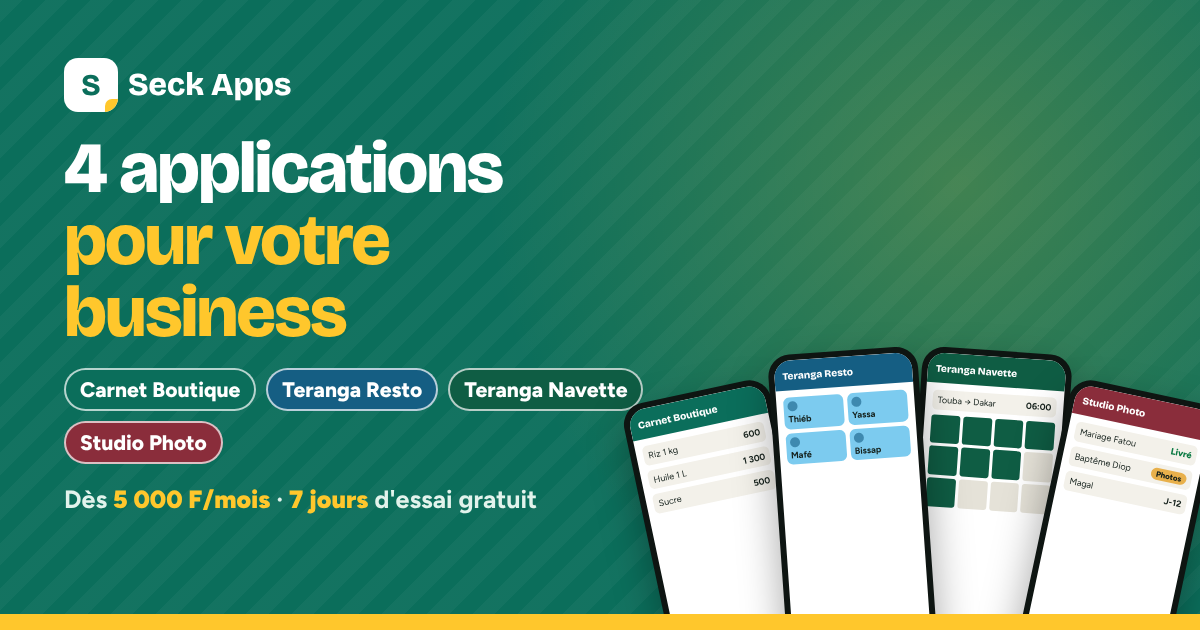
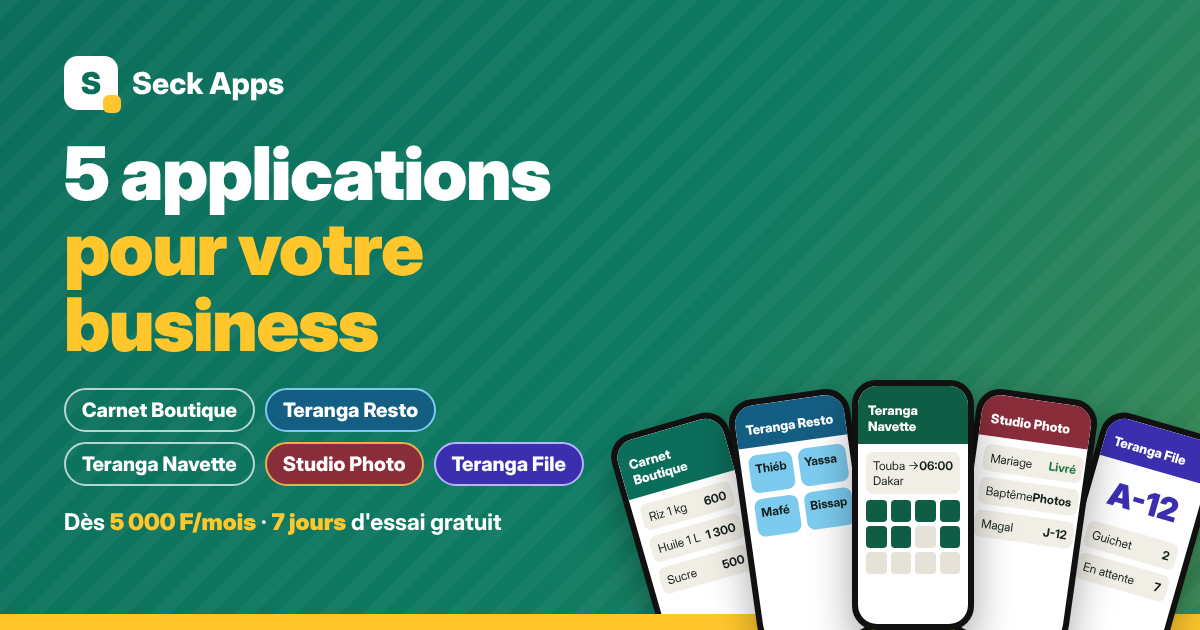
Vitrine : ajout de Teranga File (5 applications) + nouvelle image WhatsApp
- Fiche Teranga File (prix sur devis, lien vers l'exemple)
- Textes à jour : commandes en ligne qui arrivent directement dans l'app
- Lien et image de partage corrigés (/seck/ au lieu de /apps/)

Claude-Session: https://claude.ai/code/session_0154ebuB38kkaQ2sVUATtqr7

diff --git a/index.html b/index.html
@@ -4,17 +4,17 @@
 <meta charset="utf-8">
 <meta name="viewport" content="width=device-width, initial-scale=1, viewport-fit=cover">
 <meta name="theme-color" content="#0B6E5B">
-<meta name="description" content="Carnet Boutique, Teranga Resto, Teranga Navette et Studio Photo : 4 applications simples pour gérer votre business au Sénégal. 7 jours d&#x27;essai gratuit.">
-<meta property="og:title" content="Seck Apps — 4 applications pour votre business">
-<meta property="og:description" content="Boutique + boutique en ligne, restaurant, navette, studio photo. Dès 5 000 F/mois. 7 jours d&#x27;essai gratuit. Wave et Orange Money.">
-<meta property="og:image" content="https://seckappssn-maker.github.io/apps/copertina.png">
+<meta name="description" content="Carnet Boutique, Teranga Resto, Teranga Navette, Studio Photo et Teranga File : 5 applications simples pour gérer votre business au Sénégal. 7 jours d&#x27;essai gratuit.">
+<meta property="og:title" content="Seck Apps — 5 applications pour votre business">
+<meta property="og:description" content="Boutique + boutique en ligne, restaurant, navette, studio photo, file d&#x27;attente. Dès 5 000 F/mois. 7 jours d&#x27;essai gratuit. Wave et Orange Money.">
+<meta property="og:image" content="https://seckappssn-maker.github.io/seck/copertina.png">
 <meta property="og:image:width" content="1200">
 <meta property="og:image:height" content="630">
 <meta property="og:type" content="website">
-<meta property="og:url" content="https://seckappssn-maker.github.io/apps/">
+<meta property="og:url" content="https://seckappssn-maker.github.io/seck/">
 <meta name="twitter:card" content="summary_large_image">
 <link rel="apple-touch-icon" href="apple-touch-icon.png">
-<title>Seck Apps · 4 applications</title>
+<title>Seck Apps · 5 applications</title>
 <link rel="preconnect" href="https://fonts.googleapis.com">
 <link rel="stylesheet" href="https://fonts.googleapis.com/css2?family=Bricolage+Grotesque:opsz,wght@12..96,500;12..96,700;12..96,800&family=Figtree:wght@400;500;600;700;800&display=swap">
 <style>
@@ -32,6 +32,7 @@
   --salon:#6A1F5A;    --salon-2:#F2B08F;
   --tphone:#0B6B6E;   --tphone-2:#F28C28;
   --sphoto:#8A2D3B;   --sphoto-2:#E8B04B;
+  --file:#3B2FB0;     --file-2:#B9B2FF;
   --abo:#1F3A5F; --abo-2:#7FC8F8; --asso:#0B6E4F; --asso-2:#E8B04B;
   --display:"Bricolage Grotesque","Arial Narrow",system-ui,sans-serif;
   --body:"Figtree",system-ui,-apple-system,"Segoe UI",Roboto,sans-serif;
@@ -195,6 +196,7 @@ a{color:inherit}
 .more{font-weight:700;color:var(--c);text-underline-offset:3px}
 .tphone{--c:var(--tphone);--c2:var(--tphone-2)}
 .sphoto{--c:var(--sphoto);--c2:var(--sphoto-2)}
+.file{--c:var(--file);--c2:var(--file-2)}
 .app:nth-child(even){grid-template-columns:.95fr 1.05fr}
 .app:nth-child(even) .side{order:2}
 @media (max-width:820px){
@@ -305,8 +307,14 @@ footer b{color:var(--ink)}
 .hero4 .fan .ph:nth-child(1){transform:rotate(-12deg) translateY(30px);z-index:1}
 .hero4 .fan .ph:nth-child(2){transform:rotate(-4deg) translateY(2px);z-index:3}
 .hero4 .fan .ph:nth-child(3){transform:rotate(4deg) translateY(2px);z-index:2}
-.hero4 .fan .ph:nth-child(4){transform:rotate(12deg) translateY(30px);z-index:1}
-@media (max-width:520px){.hero4 .fan{height:210px}.hero4 .fan .ph{width:112px;margin-inline:-16px}}
+.hero4 .fan .ph:nth-child(1){transform:rotate(-16deg) translateY(44px);z-index:1}
+.hero4 .fan .ph:nth-child(2){transform:rotate(-8deg) translateY(12px);z-index:2}
+.hero4 .fan .ph:nth-child(3){transform:rotate(0deg) translateY(0);z-index:4}
+.hero4 .fan .ph:nth-child(4){transform:rotate(8deg) translateY(12px);z-index:3}
+.hero4 .fan .ph:nth-child(5){transform:rotate(16deg) translateY(44px);z-index:2}
+.hero4 .fan .ph{width:136px;margin-inline:-18px}
+@media (max-width:520px){.hero4 .fan{height:200px}.hero4 .fan .ph{width:92px;margin-inline:-18px}}
+.ph.file .big{font-family:var(--display);font-weight:800;font-size:2.4em;text-align:center;line-height:1;padding:.2em 0;color:var(--file)}
 .quad{display:grid;grid-template-columns:repeat(2,minmax(0,1fr));gap:12px;margin-top:16px}
 .qa{display:flex;flex-direction:column;gap:8px;text-decoration:none;color:#fff;background:var(--c);border-radius:22px;padding:18px 16px;min-height:170px;position:relative;overflow:hidden}
 .qa::after{content:"";position:absolute;right:-30px;bottom:-30px;width:110px;height:110px;border-radius:50%;background:var(--c2);opacity:.28}
@@ -314,7 +322,9 @@ footer b{color:var(--ink)}
 .qa b{font-family:var(--display);font-size:clamp(20px,4.6vw,26px);line-height:1.05}
 .qa span.d{font-size:14px;color:rgba(255,255,255,.88);position:relative;z-index:1}
 .qa .go{margin-top:auto;font-weight:800;font-size:14px;position:relative;z-index:1}
-@media (min-width:821px){.quad{grid-template-columns:repeat(4,minmax(0,1fr))}}
+@media (min-width:821px){.quad{grid-template-columns:repeat(5,minmax(0,1fr))}}
+.quad .qa:last-child:nth-child(odd){grid-column:1/-1;min-height:140px}
+@media (min-width:821px){.quad .qa:last-child:nth-child(odd){grid-column:auto;min-height:170px}}
 .howto[open]>summary{color:var(--c)}
 .app .howto{border-width:2px}
 </style>
@@ -330,12 +340,12 @@ footer b{color:var(--ink)}
 <section class="hero hero4" id="top">
   <div class="wrap">
     <span class="eyebrow">Seck Apps · Fait au Sénégal</span>
-    <h1>4 applications<br><em>pour faire grandir votre business.</em></h1>
-    <p class="lead">Une boutique, un restaurant, une navette ou un studio photo ? Choisissez votre application : tout est noté, calculé et sauvegardé en ligne. Vos clients peuvent commander ou réserver depuis votre lien.</p>
+    <h1>5 applications<br><em>pour faire grandir votre business.</em></h1>
+    <p class="lead">Une boutique, un restaurant, une navette, un studio photo, ou des clients qui attendent leur tour ? Choisissez votre application : tout est noté, calculé et sauvegardé en ligne. Vos clients peuvent commander ou réserver depuis votre lien.</p>
     <div class="facts"><span>7 jours gratuits</span><span>Dès 5 000 F / mois</span><span>Wave · Orange Money</span><span>Français · Wolof</span></div>
     <div class="btns">
       <a class="btn btn-gold" data-msg="Bonjour Seck Apps, je veux essayer une application 7 jours gratuits." href="#"><svg class="ico" viewBox="0 0 24 24" fill="currentColor" aria-hidden="true"><path d="M12 2a10 10 0 0 0-8.6 15.1L2 22l5-1.3A10 10 0 1 0 12 2zm5.3 14.1c-.2.6-1.3 1.2-1.8 1.2-.5.1-1 .2-3.3-.7-2.8-1.1-4.6-4-4.7-4.1-.1-.2-1.1-1.5-1.1-2.9s.7-2.1 1-2.4c.3-.3.6-.3.8-.3h.6c.2 0 .4 0 .6.5l.9 2.1c.1.2.1.4 0 .5l-.3.5-.4.5c-.1.1-.3.3-.1.6.2.3.8 1.3 1.7 2.1 1.2 1 2.1 1.4 2.4 1.5.3.1.5.1.6-.1l.9-1.1c.2-.3.4-.2.6-.1l2 1c.3.1.5.2.5.3.1.2.1.6-.1 1.2z"/></svg>Essayer gratuitement</a>
-      <a class="btn btn-line" href="#apps">Voir les 4 applications</a>
+      <a class="btn btn-line" href="#apps">Voir les 5 applications</a>
     </div>
     <div class="fan" aria-hidden="true">
       <div class="ph boutique"><div class="scr"><div class="bar">Carnet Boutique</div><div class="in">
@@ -351,13 +361,16 @@ footer b{color:var(--ink)}
       <div class="ph sphoto"><div class="scr"><div class="bar">Studio Photo</div><div class="in">
         <div class="row"><span>Mariage Fatou</span><span class="ok">Livré</span></div><div class="row"><span>Baptême Diop</span><span class="pill">Photos</span></div><div class="row"><span>Magal</span><b>J-12</b></div>
         <div class="tot"><span>Photos</span><span>240</span></div></div></div></div>
+      <div class="ph file"><div class="scr"><div class="bar">Teranga File</div><div class="in">
+        <div class="big">A-12</div><div class="row"><span>Guichet</span><b>2</b></div><div class="row"><span>En attente</span><b>7</b></div>
+        <div class="tot"><span>Suivant</span><span>A-13</span></div></div></div></div>
     </div>
   </div>
 </section>
 
 <main class="wrap">
 
-  <section class="pick" id="apps"><span class="eyebrow" style="color:var(--brand)">Nos applications</span><h2>Laquelle est faite pour vous ?</h2><nav class="quad" aria-label="Applications"><a class="qa boutique" href="#boutique"><span class="k">Commerce</span><b>Carnet Boutique</b><span class="d">Ventes, crédits, stock et votre boutique en ligne sur WhatsApp.</span><span class="go">Tout voir ↓</span></a><a class="qa resto" href="#resto"><span class="k">Restauration</span><b>Teranga Resto</b><span class="d">Caisse rapide, cuisine, livraisons et votre menu en ligne.</span><span class="go">Tout voir ↓</span></a><a class="qa navette" href="#navette"><span class="k">Transport</span><b>Teranga Navette</b><span class="d">Départs pleins, réservations en ligne et itinéraire GPS.</span><span class="go">Tout voir ↓</span></a><a class="qa sphoto" href="#sphoto"><span class="k">Photographe</span><b>Studio Photo</b><span class="d">Séances, acomptes, et des photos livrées en bonne qualité.</span><span class="go">Tout voir ↓</span></a></nav></section>
+  <section class="pick" id="apps"><span class="eyebrow" style="color:var(--brand)">Nos applications</span><h2>Laquelle est faite pour vous ?</h2><nav class="quad" aria-label="Applications"><a class="qa boutique" href="#boutique"><span class="k">Commerce</span><b>Carnet Boutique</b><span class="d">Ventes, crédits, stock et votre boutique en ligne.</span><span class="go">Tout voir ↓</span></a><a class="qa resto" href="#resto"><span class="k">Restauration</span><b>Teranga Resto</b><span class="d">Caisse rapide, cuisine, livraisons et votre menu en ligne.</span><span class="go">Tout voir ↓</span></a><a class="qa navette" href="#navette"><span class="k">Transport</span><b>Teranga Navette</b><span class="d">Départs pleins, réservations en ligne et itinéraire GPS.</span><span class="go">Tout voir ↓</span></a><a class="qa sphoto" href="#sphoto"><span class="k">Photographe</span><b>Studio Photo</b><span class="d">Séances, acomptes, et des photos livrées en bonne qualité.</span><span class="go">Tout voir ↓</span></a><a class="qa file" href="#file"><span class="k">Banque · Clinique</span><b>Teranga File</b><span class="d">Fini la foule au guichet : un numéro, l'écran TV l'appelle.</span><span class="go">Tout voir ↓</span></a></nav></section>
 
   <div class="apps">
 
@@ -381,7 +394,7 @@ footer b{color:var(--ink)}
           <li><span><b>Ventes</b> notées en un geste, même les bonbons à la pièce</span></li>
           <li><span><b>Carnet des dettes</b> : qui doit combien, depuis quand, rappel WhatsApp</span></li>
           <li><span><b>Stock</b> : ce qui reste et ce qu'il faut racheter</span></li>
-          <li><span><b>Boutique en ligne</b> : votre lien avec photos et prix, vos clients commandent sur WhatsApp et votre téléphone sonne</span></li>
+          <li><span><b>Boutique en ligne</b> : votre lien avec photos et prix, la commande arrive dans l'app, votre téléphone sonne et le client suit sa commande</span></li>
           <li><span><b>Mode caisse</b> pour tablette et POS Android</span></li>
           <li><span><b>Ticket 58 mm</b> avec QR Wave, et étiquettes prix</span></li>
           <li><span>Prix lu à haute voix, gros boutons, bouton <b>wolof</b></span></li>
@@ -417,8 +430,8 @@ footer b{color:var(--ink)}
           <li><span>Chaque employé entre avec <b>son code</b> et voit son travail</span></li>
           <li><span>Paiement mixte (espèces + Wave) et <b>addition partagée</b> entre amis</span></li>
         </ul>
-        <div class="extra"><strong>Inclus :</strong><span>votre page menu avec photos, vos clients commandent sur WhatsApp.</span></div>
-        <details class="howto" open><summary>Tout ce que fait l'app</summary><div class="howin"><p class="ht">Comment ça marche</p><ol class="hsteps"><li>Ajoutez vos plats avec photos et prix, rangés par zones (plats, boissons…).</li><li>Le caissier touche les plats : sur place à une table, à emporter ou en livraison.</li><li>La commande part en cuisine : sur l'écran cuisine ou sur un bon imprimé.</li><li>Le client paie en espèces, Wave ou Orange Money, ou un mélange.</li></ol><div class="hgroups"><div><p class="ht">Caisse</p><ul><li>Grandes photos des plats, très rapide quand il y a du monde</li><li>Tables, à emporter sans numéro, livraisons</li><li>Paiement mixte et addition partagée entre amis</li><li>Tickets de caisse</li></ul></div><div><p class="ht">Cuisine et équipe</p><ul><li>Écran cuisine : la commande disparaît quand elle est prête</li><li>Chaque employé a son code et voit seulement son travail</li><li>Le livreur reçoit la livraison sur WhatsApp, sans code</li></ul></div><div><p class="ht">Gestion</p><ul><li>Clients et dettes</li><li>Dépenses et bénéfice</li><li>Stock : riz, huile, gaz… (Pro)</li><li>Personnel : salaires et avances (Pro)</li><li>Abonnés repas au mois et événements traiteur (Pro)</li></ul></div><div><p class="ht">Votre page menu</p><ul><li>Un lien à vous, à partager sur WhatsApp</li><li>Photos, prix, plat du jour, plats épuisés</li><li>Le client commande et le message arrive sur votre WhatsApp</li><li>En français et en wolof</li></ul></div></div></div></details>
+        <div class="extra"><strong>Inclus :</strong><span>votre page menu avec photos : vos clients commandent en ligne et voient quand leur commande est prête.</span></div>
+        <details class="howto" open><summary>Tout ce que fait l'app</summary><div class="howin"><p class="ht">Comment ça marche</p><ol class="hsteps"><li>Ajoutez vos plats avec photos et prix, rangés par zones (plats, boissons…).</li><li>Le caissier touche les plats : sur place à une table, à emporter ou en livraison.</li><li>La commande part en cuisine : sur l'écran cuisine ou sur un bon imprimé.</li><li>Le client paie en espèces, Wave ou Orange Money, ou un mélange.</li></ol><div class="hgroups"><div><p class="ht">Caisse</p><ul><li>Grandes photos des plats, très rapide quand il y a du monde</li><li>Tables, à emporter sans numéro, livraisons</li><li>Paiement mixte et addition partagée entre amis</li><li>Tickets de caisse</li></ul></div><div><p class="ht">Cuisine et équipe</p><ul><li>Écran cuisine : la commande disparaît quand elle est prête</li><li>Chaque employé a son code et voit seulement son travail</li><li>Le livreur reçoit la livraison sur WhatsApp, sans code</li></ul></div><div><p class="ht">Gestion</p><ul><li>Clients et dettes</li><li>Dépenses et bénéfice</li><li>Stock : riz, huile, gaz… (Pro)</li><li>Personnel : salaires et avances (Pro)</li><li>Abonnés repas au mois et événements traiteur (Pro)</li></ul></div><div><p class="ht">Votre page menu</p><ul><li>Un lien à vous, à partager sur WhatsApp</li><li>Photos, prix, plat du jour, plats épuisés</li><li>Le client commande : la commande arrive dans votre caisse et il voit quand elle est prête</li><li>En français et en wolof</li></ul></div></div></div></details>
         <div class="price">
           <div class="tiers">
             <div class="tier"><div class="th"><span class="n">Essentiel</span><b>5 000 F</b><small>/ mois</small></div>
@@ -526,6 +539,38 @@ footer b{color:var(--ink)}
         </div>
       </div>
     </article>
+
+    <!-- TERANGA FILE -->
+    <article class="app file" id="file">
+      <div class="side">
+        <div class="tagline"><span class="badge">Nouveau</span></div>
+        <p class="for">Pour banques, cliniques, mairies, points Wave / Orange Money, services clients</p>
+        <h3>Teranga File</h3>
+        <p class="pitch">Fini la foule devant le guichet. Chaque client a son numéro, l'écran TV l'appelle, et il peut attendre assis ou dehors.</p>
+        <div class="phone-wrap"><div class="ph file"><div class="scr"><div class="bar">Écran TV <small>Banque</small></div><div class="in">
+          <div class="big">A-12</div>
+          <div class="row"><span>Numéro appelé</span><span class="pill">Guichet 2</span></div>
+          <div class="row"><span>B-05 · Retrait</span><span>Guichet 1</span></div>
+          <div class="row"><span>A-11 · Dépôt</span><span>Guichet 3</span></div>
+          <div class="tot"><span>En attente</span><span>7</span></div></div></div></div></div>
+      </div>
+      <div class="main">
+        <ul class="feat">
+          <li><span><b>Un numéro pour chaque client</b> : à l'accueil sur une tablette (ticket papier) ou avec un <b>QR code</b> sur son téléphone, sans compte</span></li>
+          <li><span><b>Écran TV</b> : le numéro appelé en grand, avec un « ding » et la voix</span></li>
+          <li><span><b>Chaque guichet</b> sur son téléphone : Suivant, Rappeler, Absent</span></li>
+          <li><span>Le client <b>suit son tour</b> sur son téléphone et peut être prévenu quand c'est bientôt à lui</span></li>
+          <li><span>Jusqu'à <b>6 services</b> (Dépôt, Retrait, Consultation…) et le <b>bilan</b> de la journée</span></li>
+        </ul>
+        <div class="extra"><strong>Inclus :</strong><span>le QR code à afficher pour vos clients et le lien de l'écran TV.</span></div>
+        <div class="price"><div><span class="amount">Sur devis</span></div>
+          <p class="year">Le prix dépend de votre établissement (nombre de guichets et d'écrans). Écrivez-nous pour un essai.</p></div>
+        <div class="btns">
+          <a class="btn btn-wa" data-msg="Bonjour, je veux essayer Teranga File (file d'attente) pour mon établissement." href="#">Demander un essai</a>
+          <a class="btn btn-line" href="https://seckappssn-maker.github.io/teranga-file/?demo=1" target="_blank" rel="noopener">Voir l'exemple</a>
+        </div>
+      </div>
+    </article>
   </div>
 
   <section class="band">
@@ -564,7 +609,7 @@ footer b{color:var(--ink)}
       <details><summary>Je ne lis pas bien le français.</summary><p>Les apps ont un bouton wolof et de grosses écritures. On vous explique aussi par vocal WhatsApp.</p></details>
       <details><summary>Que se passe-t-il si je ne paie pas ?</summary><p>Après la date de fin, vous avez 3 jours. Ensuite l'app se met en pause : vos données restent gardées et vous pouvez les regarder. Dès que vous payez, tout repart.</p></details>
       <details><summary>Je peux arrêter quand je veux ?</summary><p>Oui. Vous payez mois par mois, sans contrat. Vous arrêtez quand vous voulez.</p></details>
-      <details><summary>Mes clients peuvent-ils réserver ou commander en ligne ?</summary><p>Oui. Teranga Resto, Atelier Couture, Salon Beauté, Teranga Phone, Studio Photo, Kër Loyer et Teranga Navette donnent une page à vos clients : ils voient vos photos et vos prix, réservent ou commandent, et vous recevez tout dans l'app.</p></details>
+      <details><summary>Mes clients peuvent-ils réserver ou commander en ligne ?</summary><p>Oui. Carnet Boutique, Teranga Resto, Teranga Navette, Studio Photo et Teranga File donnent une page ou un QR code à vos clients : ils voient vos photos et vos prix, réservent ou commandent, et vous recevez tout dans l'app.</p></details>
       <details><summary>J'ai deux boutiques ou deux restaurants.</summary><p>Chaque boutique ou restaurant a son propre abonnement. Écrivez-nous, on vous aide à tout mettre en place.</p></details>
     </div>
   </section>
@@ -579,7 +624,7 @@ footer b{color:var(--ink)}
   </section>
 </main>
 
-<footer><b>Seck Apps</b> · Sénégal · Carnet Boutique · Teranga Resto · Teranga Navette · Studio Photo</footer>
+<footer><b>Seck Apps</b> · Sénégal · Carnet Boutique · Teranga Resto · Teranga Navette · Studio Photo · Teranga File</footer>
 
 <div class="sticky"><a class="btn btn-wa" data-msg="Bonjour Seck Apps, je veux essayer une application 7 jours gratuits." href="#">
   <svg class="ico" viewBox="0 0 24 24" fill="currentColor" aria-hidden="true"><path d="M12 2a10 10 0 0 0-8.6 15.1L2 22l5-1.3A10 10 0 1 0 12 2zm5.3 14.1c-.2.6-1.3 1.2-1.8 1.2-.5.1-1 .2-3.3-.7-2.8-1.1-4.6-4-4.7-4.1-.1-.2-1.1-1.5-1.1-2.9s.7-2.1 1-2.4c.3-.3.6-.3.8-.3h.6c.2 0 .4 0 .6.5l.9 2.1c.1.2.1.4 0 .5l-.3.5-.4.5c-.1.1-.3.3-.1.6.2.3.8 1.3 1.7 2.1 1.2 1 2.1 1.4 2.4 1.5.3.1.5.1.6-.1l.9-1.1c.2-.3.4-.2.6-.1l2 1c.3.1.5.2.5.3.1.2.1.6-.1 1.2z"/></svg>
